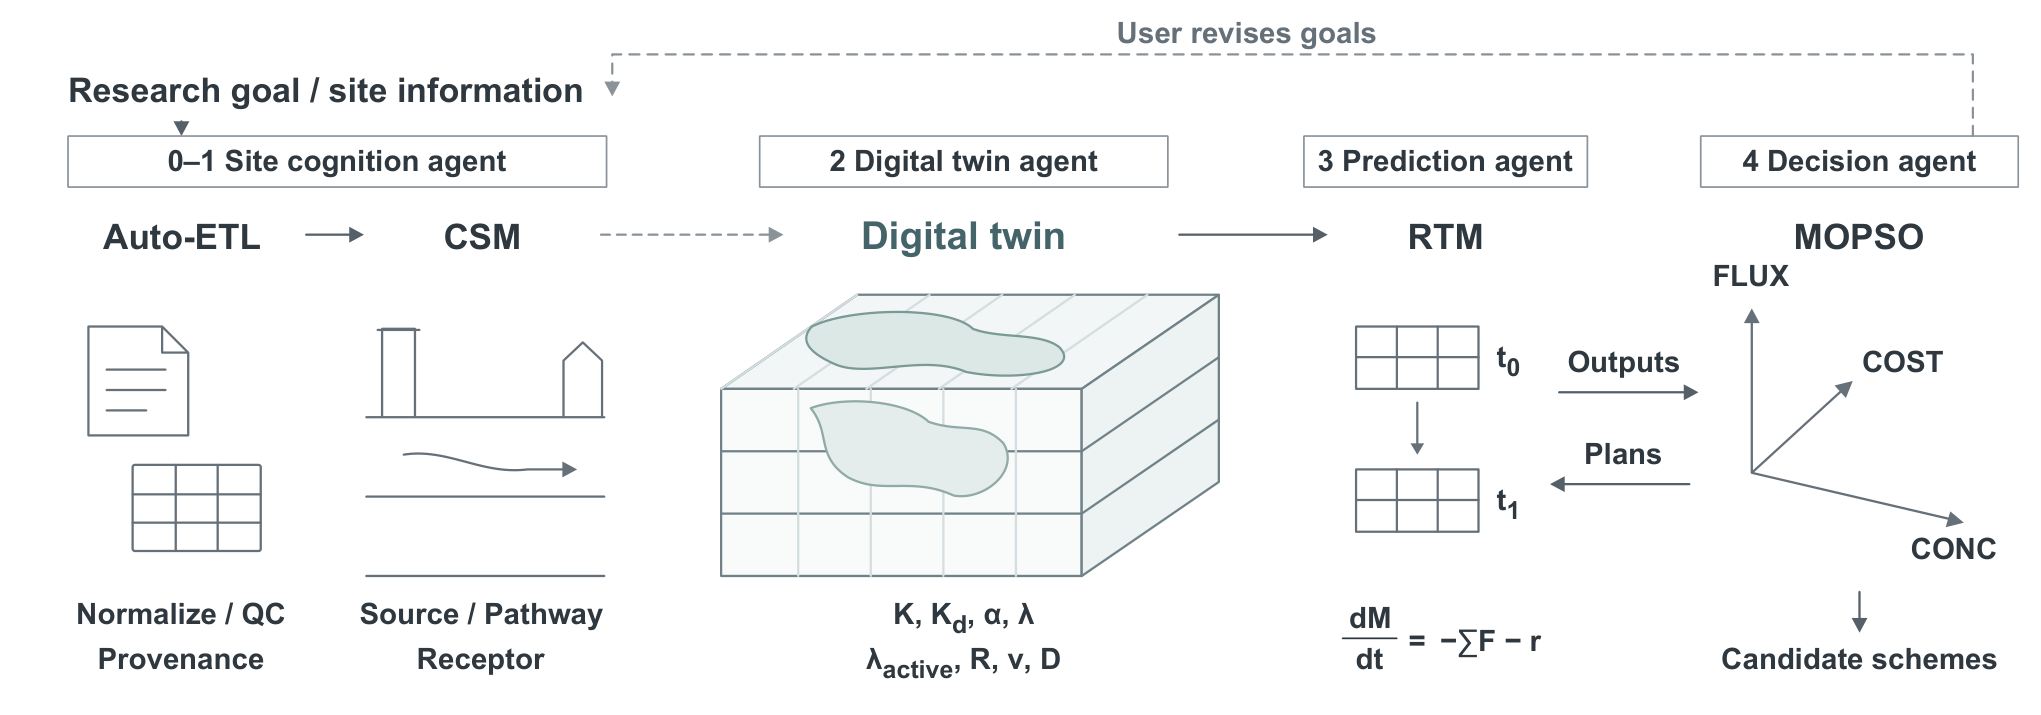
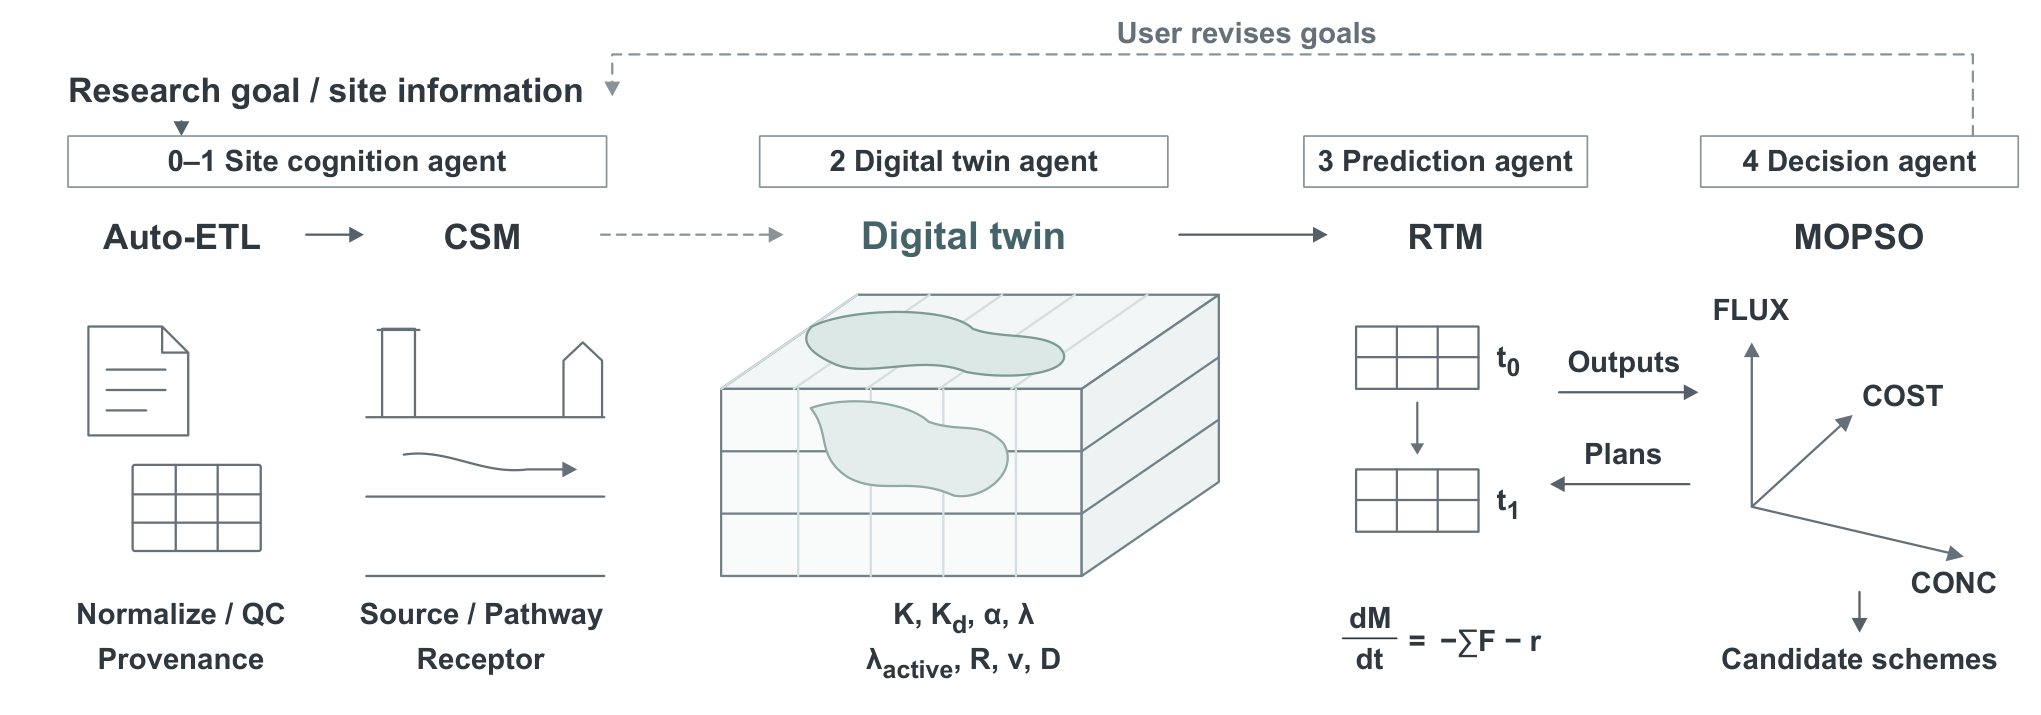
fig: add breathing room beneath MOPSO heading

diff --git a/output/脚本/20261009-16-SoilAgent-R-Figure1/20261009-16-导出与QA.py b/output/脚本/20261009-16-SoilAgent-R-Figure1/20261009-16-导出与QA.py
@@ -98,6 +98,9 @@ def export(repo: Path) -> dict:
         header_labels = ["Auto-ETL", "CSM", "Digital twin", "RTM", "MOPSO"]
         header_rects = {label: page.search_for(label, clip=header_clip) for label in header_labels}
         header_unique = all(len(boxes) == 1 for boxes in header_rects.values())
+        decision_title_gap = None
+        if len(header_rects["MOPSO"]) == 1 and len(right_rects["FLUX"]) == 1:
+            decision_title_gap = right_rects["FLUX"][0].y0 - header_rects["MOPSO"][0].y1
         header_collisions = []
         for index, first in enumerate(header_labels):
             for second in header_labels[index + 1:]:
@@ -169,6 +172,7 @@ def export(repo: Path) -> dict:
             "pdf_right_labels_no_text_collision": not collisions,
             "pdf_model_headers_present_once": header_unique,
             "pdf_model_headers_no_text_collision": not header_collisions,
+            "pdf_mopso_title_axes_gap_at_least_2mm": decision_title_gap is not None and decision_title_gap >= 72 * 2 / 25.4,
             "svg_four_agent_scopes_cover_five_modules": agent_mappings == expected_agent_mappings and len(agent_groups) == 4,
             "pdf_agent_labels_fit_header_frames": len(agent_fit) == 4 and all(agent_fit),
             # 按最终PDF字形包围盒，框底至模型名至少留2 mm，而非按文字基线估距。
@@ -190,7 +194,7 @@ def export(repo: Path) -> dict:
             "pdf_height_63mm": abs(rect.height * 25.4 / 72 - 63) < 0.01,
         }
         receipt = {
-            "stage": "structure_draft_numbered_agent_scopes_spaced_model_labels",
+            "stage": "structure_draft_spaced_mopso_axes",
             "source": source.relative_to(repo).as_posix(),
             "source_sha256": hashlib.sha256(source.read_bytes()).hexdigest(),
             "backend": f"CairoSVG {cairosvg.__version__}; PyMuPDF {pymupdf.VersionBind} for PDF QA/render",
@@ -210,6 +214,7 @@ def export(repo: Path) -> dict:
             "right_label_collisions": collisions,
             "model_header_boxes_pt": {label: [list(box) for box in boxes] for label, boxes in header_rects.items()},
             "model_header_collisions": header_collisions,
+            "mopso_title_axes_gap_mm": None if decision_title_gap is None else decision_title_gap * 25.4 / 72,
             "agent_responsibility_mapping": agent_mappings,
             "agent_step_indices": {group.get("id"): group.get("data-step-indices") for group in agent_groups},
             "agent_frame_to_model_label_gaps_pt": agent_header_gaps,

diff --git a/tests/test_soilagent_figure1_wireframe.py b/tests/test_soilagent_figure1_wireframe.py
@@ -87,6 +87,7 @@ class WireframeTests(unittest.TestCase):
     def test_empty_decision_axes(self):
         axes = self.nodes["decision-axes"]
         self.assertEqual(axes.get("data-state"), "empty-placeholder")
+        self.assertEqual(axes.get("transform"), "translate(0 30)")
         self.assertFalse(any(n.tag in {NS + "circle", NS + "ellipse", NS + "image"} for n in axes.iter()))
         self.assertIn("Decision axes contain no candidate data", self.root.find(NS + "desc").text)
         axis_text = " ".join("".join(n.itertext()) for n in axes.iter(NS + "text"))

diff --git a/output/表/20261009-16-SoilAgent-R-Figure1/20261009-16-元素与科学依据.md b/output/表/20261009-16-SoilAgent-R-Figure1/20261009-16-元素与科学依据.md
@@ -5,9 +5,9 @@
 | 图中元素 | 代码/文档依据（研究仓库相对路径） | 状态与本图处理 |
 |---|---|---|
 | 五工具主线0→1→2→3↔4 | `AGENTS.md`六技能与边界；根`README.md`主流程；0–4层`skill/SKILL.md`入口/前置 | 现有工具能力与逻辑职责；编号属于工具阶段，图面编号仅在上方职责框，下方模型名不重复；不是五个独立智能体或严格串行一键自治运行的声明 |
-| 四个智能体职责细框 | 用户2026-10-09指定分组及本轮编号迁移要求；工具能力来源见下列对应代码指针 | 上框依次为0–1 Site cognition agent（负责阶段0 Auto-ETL与阶段1 CSM）、2 Digital twin agent（阶段2 Digital twin）、3 Prediction agent（阶段3 RTM）、4 Decision agent（阶段4 MOPSO）。四职责分组不变，仅保留标题上方细框，不做大卡片，不声称四个自治runtime已实现或已部署 |
-| 技术证据不单列智能体 | 用户本轮分组决定；既有参数可信度、方法出处与证据合同仍有效 | 不新增技术证据职责框；不因此删除方法来源、参数边界或Draft/No-Go状态 |
-| 五个单行模型标题（无重复编号） | 用户2026-10-09撤回英文过程名，本轮要求编号移到上方职责框 | 下方仅写Auto-ETL / CSM / Digital twin / RTM / MOPSO；编号表示原有0–4工具阶段，不在模型名重复；仅改展示位置及间距，模型职责与准入状态保持 |
+| 四个智能体职责细框 | 用户2026-10-09指定分组及此前编号迁移要求；工具能力来源见下列对应代码指针 | 上框依次为0–1 Site cognition agent（负责阶段0 Auto-ETL与阶段1 CSM）、2 Digital twin agent（阶段2 Digital twin）、3 Prediction agent（阶段3 RTM）、4 Decision agent（阶段4 MOPSO）。四职责分组不变，仅保留标题上方细框，不做大卡片，不声称四个自治runtime已实现或已部署 |
+| 技术证据不单列智能体 | 用户既有分组决定；既有参数可信度、方法出处与证据合同仍有效 | 不新增技术证据职责框；不因此删除方法来源、参数边界或Draft/No-Go状态 |
+| 五个单行模型标题（无重复编号） | 用户2026-10-09撤回英文过程名，前轮要求编号移到上方职责框 | 下方仅写Auto-ETL / CSM / Digital twin / RTM / MOPSO；编号表示原有0–4工具阶段，不在模型名重复；模型职责与准入状态保持，本轮不改标题 |
 | Auto-ETL：资料→规范表与溯源 | `0-auto-etl/skill/scripts/auto_etl/auto_etl.py:3511,3558,3644` | 已实现；通用表格线稿，不显示样本/浓度；人工复核不省略 |
 | CSM：source–pathway–receptor | `1-csm/skill/scripts/build_csm.py:83,1605,1633,1707`；本层SKILL前置/输出 | 已实现结构化CSM；人工生产史/假设参与，不标知识图谱 |
 | CSM→Twin | `2-数字孪生/skill/SKILL.md`第3节说明：没有直接读`csm.json`，CSM是分层与源区的方法依据 | 示意方法关系，采用虚线；不画成已接通自动JSON接口 |
@@ -24,7 +24,8 @@
 | Candidate schemes（门控说明见caption） | `yuxing_direct_rtm_mopso.py:1403,2603`；`MOPSO/EVIDENCE_IMPLEMENTATION_CONTRACT.md`第5节 | 筛选级；正式计算/工程/报批门必须区分，不标工程最优或已达标；为减少画面拥挤，门控状态说明移至caption |
 | User resets goals | Issue #2明确允许人工重新设目标/比较；MOPSO参考目标与后置评价文档 | 示意用户动作；用虚线，不声称实时自主闭环 |
 | Shared data / tools（不再显示） | `AGENTS.md`数据底座；第3层RTM和根MOPSO实现 | 按最新用户截图要求删除底部文字及横线；仅取消展示，不删实际共用数据/工具，不新增Agent |
-| 紧凑对齐版式 | 用户2026-10-09要求减少左下留白、修正对齐及RTM公式散乱，并仅保留质量平衡式；本轮追加拉开框内文字与模型名间距 | 180×63 mm；上框保持y=120/h45，五个模型标题基线由y=200移到y=220，三条标题间连接箭头同步下移20，最终PDF中框底到模型名实际字形间距为2.42–2.69 mm；框几何、输入与反馈、模型主体、下方说明、八参数与公式不动。交互线位于栏间，单个质量平衡式采用原生竖分数并在RTM栏x=1275居中，公式区下沿与其他说明对齐；只改图面展示，不改科学公式、参数或模型状态 |
+| 紧凑对齐版式 | 用户2026-10-09要求减少左下留白、修正对齐及RTM公式散乱，并仅保留质量平衡式；前轮追加拉开框内文字与模型名间距 | 180×63 mm；上框保持y=120/h45，五个模型标题基线由y=200移到y=220，三条标题间连接箭头同步下移20，最终PDF中框底到模型名实际字形间距为2.42–2.69 mm；本轮保留上述位置。交互线位于栏间，单个质量平衡式采用原生竖分数并在RTM栏x=1275居中，公式区下沿与其他说明对齐；只改图面展示，不改科学公式、参数或模型状态 |
+| MOPSO标题与空坐标图间距 | 用户本轮要求坐标图离标题稍远，减少拥挤；仅为版式调整 | 只对decision-axes整组加translate(0 30)，将坐标轴、轴箭头与CONC/COST/FLUX三个标签整体下移3 mm；最终PDF中MOPSO标题底到FLUX标签顶间距为3.19 mm。SVG diff仅新增该组transform一行；模型标题、Outputs/Plans交互箭头、Candidate schemes输出与其他主体、公式及八参数全部不动。仍为空坐标，无候选点/前沿/颜色映射，TIME第四目标及Draft/No-Go状态不变 |
 | 第5层Scale-up | `AGENTS.md`横切职责；Issue #2明确本图不单列 | 不采用，不放入图中；Methods如需另行交代 |
 | 知识图谱、专属井型、精确井位、法规阈值、污染场数值 | 本阶段没有对应已核准绘图输入；CSM代码为结构化模型 | 不采用；不虚构其科学或部署状态 |
 

diff --git a/input/索引.md b/input/索引.md
@@ -3,13 +3,14 @@
 ## 20261009-16-SoilAgent-R-Figure1
 
 - 任务：[Issue #2](https://github.com/b619-y/drawing-studio-agent/issues/2)，重绘论文系统总体架构图。
-- 当前阶段：科学依据审核＋极简结构草图；2026-10-09用户认可总体结构并要求yyc字体修订，已安装真正Arial并统一用Arial Bold。最新将0–4工具阶段编号迁移到上方四个智能体职责细框，下方五个标题只保留模型名，并稍微拉开上下标题间距；保留CONC轴及已精简的画面。概念、非等比例、无真实候选点及待审状态留在caption/元数据，不宣称正式图完成，四目标计算不变。
+- 当前阶段：科学依据审核＋极简结构草图；2026-10-09用户认可总体结构并要求yyc字体修订，已安装真正Arial并统一用Arial Bold。保持0–4工具阶段编号位于上方四个智能体职责细框、下方五个标题只保留模型名及已拉开的上下标题间距；最新仅将MOPSO标题下的空坐标组整体下移3 mm以减少拥挤。概念、非等比例、无真实候选点及待审状态留在caption/元数据，不宣称正式图完成，四目标计算不变。
 - 研究来源：[soilagent-r-agent](https://github.com/b619-y/soilagent-r-agent)；核对科学基线 `e2e1f2b25ae9746ab3632fc118f946bf62582546`，治理文档工作树 `c287d03b8a2fc803419ce0128f7b18ad70dc6de7`。原始输入只读，不复制私有代码或数据。
 - 输入：研究仓库的AGENTS、README、相关层SKILL文档、Twin状态、MOPSO证据合同与代码接口；仅记录方法与来源指针。
 - 主责：`scansci-svg`，按本仓库路由制作原生矢量线框；`drawio-skill`只辅助记录可编辑关系结构。EasyPlot仅提供用户保存的yyc字体规范，无重算、无生成式位图、无随机候选点。
 - 公开交付只含概念示意、来源指针、绘图源码与QA。实测几何/井位/浓度和候选档案没有导入或发布。按最新截图要求，底部资源文字及横线已从图面删除，实际数据/工具不变。
 - 同主题成果：`output/图/20261009-16-SoilAgent-R-Figure1/`、`output/脚本/20261009-16-SoilAgent-R-Figure1/`、`output/表/20261009-16-SoilAgent-R-Figure1/`、`output/报告/20261009-16-SoilAgent-R-Figure1/`。
 - 最新下方标注：Twin列K/Kd/α/λ/λ_active/R/v/D八个已登记参数场组（含派生/条件场）；RTM图面只保留控制体库存守恒式dM/dt=−ΣF−r。Cs=Kd Cw从图面删除，科学模型中的相平衡关系仍保留在方法说明；不写持续恒定工程速率、不改科学数据。
-- 最新版式：画幅180×63 mm，上方细框保持y=120/h45，下方五个模型标题共用基线从y=200移到y=220，标题间连接箭头同步下移20以拉开上下文字间距；模型主体与下方说明、八参数及公式不动。五栏说明末行对齐；Outputs/Plans位于栏间，RTM单个质量平衡式用原生竖分数，在该栏x=1275居中，公式区下沿与其他说明对齐。仅调整可编辑概念图，不重算研究结果。
+- 已有版式保持：画幅180×63 mm，上方细框保持y=120/h45，下方五个模型标题共用y=220基线，标题间连接箭头已随前轮标题下移20以拉开上下文字间距；本轮下方说明、八参数及公式不动。五栏说明末行对齐；Outputs/Plans位于栏间，RTM单个质量平衡式用原生竖分数，在该栏x=1275居中，公式区下沿与其他说明对齐。仅调整可编辑概念图，不重算研究结果。
+- 本轮局部调整：只对`decision-axes`整组加`translate(0 30)`，将空坐标轴、轴箭头及CONC/COST/FLUX三个标签整体下移3 mm；最终PDF中MOPSO标题底到FLUX标签顶间距为3.19 mm。模型标题、Outputs/Plans交互箭头、Candidate schemes输出与其他主体全部不动，不新增候选点或改变四目标计算。
 - 用户选择的职责分组保持：场地认知负责阶段0 Auto-ETL与阶段1 CSM；数字孪生负责阶段2 Digital twin；效果预测负责阶段3 RTM；方案决策负责阶段4 MOPSO。上方四框依次写“0–1 Site cognition agent”“2 Digital twin agent”“3 Prediction agent”“4 Decision agent”，下方仅写Auto-ETL / CSM / Digital twin / RTM / MOPSO。编号表示工具阶段，不是新增智能体编号；五个工具对应四个智能体，技术证据不单列。不改成大卡片，也不据此声称已实现四个自治runtime。Draft/No-Go、八参数、单一守恒式与空坐标状态保持。
-- 本轮验收：23项回归测试、最终PDF技术QA、scansci结构检查（0 errors）及源码范围对照均通过，最终PNG由绘制者目视确认，不称独立版式复核已完成。框底到模型名实际字形间距为2.42–2.69 mm；画幅180×63 mm、Arial-BoldMT保持。本轮仅改框内编号、下方五个模型标题及三条标题间连接箭头；框几何、输入与反馈、所有模型主体、公式及八参数与前一版一致。
+- 本轮验收：23项回归测试、最终PDF技术QA及scansci结构检查（0 errors）均通过，最终PNG已由绘制者目视确认无明显遮挡或裁切，不称独立版式复核已完成。画幅180×63 mm、Arial-BoldMT及既有标题间距保持。本轮SVG diff仅`decision-axes`新增`transform="translate(0 30)"`一行，没有其他SVG变更，不沿用前轮标题与连接箭头的修改范围作本轮结论。
